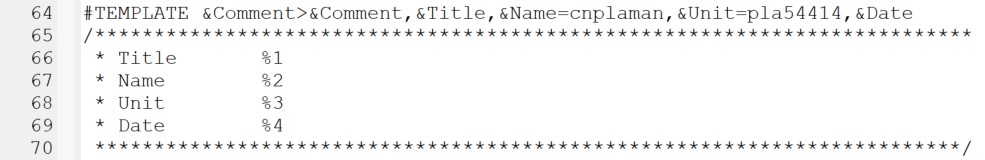
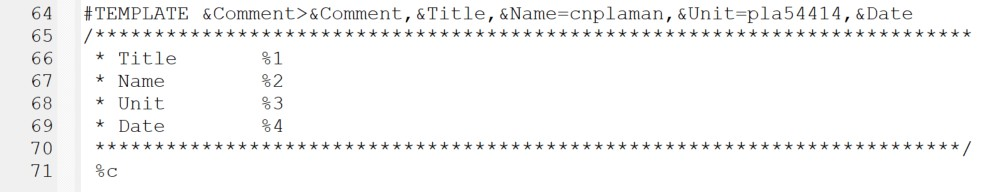
ide

diff --git a/wsn/exp0.html b/wsn/exp0.html
@@ -8,11 +8,11 @@
     <title>WSN集成开发环境搭建</title>
     <link rel="stylesheet" href="../css/reset.css">
     <link rel="stylesheet" href="../css/ds.css">
-    <base target="_blank">
     <style>
         header {
             background-image: url(../imgs/wsn/wsn.jpg);
             color: #333;
+            margin-bottom: 0;
         }
 
         header h1 {
@@ -20,9 +20,9 @@
             text-align: left;
         }
 
-        .title {
-            line-height: 1.2rem;
-            text-decoration: underline;
+        nav {
+            line-height: 3rem;
+            background-color: #f40;
         }
 
         .cont li {
@@ -81,10 +81,18 @@
 
 <body>
     <section class="w">
-        <header class="nav">
+        <header class="nav" id="top">
             <h1>WSN集成开发环境搭建</h1>
         </header>
-        <h2>硬件Hardware</h2>
+        <nav>
+            <ul class="flex-h">
+                <li><a href="#ide" id="toide">开发环境</a></li>
+                <li><a href="#pro" id="topro">创建项目</a></li>
+                <li><a href="#conf" id="toconf">其它配置</a></li>
+                <li><a href="#temp" id="totemp">模板使用</a></li>
+            </ul>
+        </nav>
+        <h2 id="ide">硬件Hardware <a href="#top" id="top0"><i class="iconfont icon">&#xe604;</i></a></h2>
         <dl>
             <dt>包括</dt>
             <dd>个人PC</dd>
@@ -118,7 +126,7 @@
             <dt>说明</dt>
             <dd>TI的提供的资源很多都是免费的，但是要注册才能下载，有。。。用户信息的嫌疑；</dd>
         </dl>
-        <h2>第一个项目：点灯</h2>
+        <h2 id="pro">第一个项目：点灯 <a href="#top" id="top1"><i class="iconfont icon">&#xe604;</i></a></h2>
         <dl>
             <dt>基本流程</dt>
             <dd>创建工作空间(.eww)-&gt;创建项目(.ewp，如基于C的项目)-&gt;配置项目-&gt;创建其它文件-&gt;添加文件到项目-&gt;调式-&gt;下载/烧写-&gt;执行/调试</dd>
@@ -185,7 +193,7 @@
             <dd>观察节点板上的LED灯开始间断闪烁；</dd>
             <dd>调整源码参数，重新调试，检测实验结果；</dd>
         </dl>
-        <h2>基本配置</h2>
+        <h2 id="conf">基本配置 <a href="#top" id="top2"><i class="iconfont icon">&#xe604;</i></a></h2>
         <dl>
             <dt>字体</dt>
             <dd class="ps-box">
@@ -196,27 +204,45 @@
                 <img src="../imgs/wsn/code031.jpg" alt="">
             </dd>
         </dl>
-        <h2>创建模板</h2>
+        <h2 id="temp">创建模板 <a href="#top" id="top3"><i class="iconfont icon">&#xe604;</i></a></h2>
         <dl>
             <dt>说明</dt>
             <dd>模板是IAR的强大功能；灵活利用模板可以提高开发效率</dd>
             <dd>可以创建注释、函数等模板</dd>
-            <dt>创建注释模板</dt>
-            <dd>编辑Edit-&gt;代码模板Code template-&gt;编辑模板Edit Template，打开CodeTemplates.ENU.txt文件，在最后面添加如下模板</dd>
-            <dd>模板以#开头，后面是模板的名字和参数；使用&gt;创建多级模板；</dd>
+            <dt>创建模板</dt>
+            <dd>编辑Edit-&gt;代码模板Code template-&gt;编辑模板Edit Template，打开CodeTemplates.ENU.txt文件，在<span
+                    class="warn">适当位置</span>添加如下模板</dd>
+            <dd>模板以#TEMPLATE开头<span class="warn">[大写]</span>，后面是模板的名字和参数；使用&gt;创建多级模板；</dd>
             <dd>模板用到的参数以,区分；如果参数带有默认值，以值对的形式呈现；</dd>
             <dd>模板实现中，使用数值和参数一一对应；如果需要对齐，不要使用tab，使用空格；</dd>
+            <dd>同类模板<span class="warn">应</span>放在一起</dd>
+            <dd>模板使用%c，可以在插入模板后，定义光标的位置；</dd>
+            <dt>使用模板</dt>
+            <dd>在源文件中，编辑Edit-&gt;代码模板Code template-&gt;插入模板Insert Template，选择创建的注释模板；填写对应的内容并确定，注释模板即可添加到源文件中；</dd>
+            <dt><span class="warn">[示例1 注释模板]</span></dt>
             <dd>下面示例声明了一个2级注释代码，共4个参数，其中：第2个和第3个带有默认参数；</dd>
+            <dd>创建模板</dd>
             <dd class="ps-box">
                 <img src="../imgs/wsn/code40.jpg" alt="">
             </dd>
-            <dt>使用注释模板</dt>
-            <dd>在源文件中，编辑Edit-&gt;代码模板Code template-&gt;插入模板Insert Template，选择创建的注释模板；填写对应的内容并确定，注释模板即可添加到源文件中；</dd>
+            <dd>使用模板</dd>
             <dd class="ps-box">
                 <img src="../imgs/wsn/code41.jpg" alt="">
             </dd>
+            <dd>插入模板后效果</dd>
             <dd class="ps-box">
                 <img src="../imgs/wsn/code42.jpg" alt="">
+            </dd>
+            <dt><span class="warn">[示例2 主函数模板]</span></dt>
+            <dd>下面示例声明了一个main主函数模板，没有参数，返回为0；</dd>
+            <dd>该函数模板放在了声明类模板Statement的最上面；插入光标后在mai函数的第一行；</dd>
+            <dd>创建模板</dd>
+            <dd class="ps-box">
+                <img src="../imgs/wsn/code43.jpg" alt="">
+            </dd>
+            <dd>使用模板：因为没有函数，直接在源文件中插入</dd>
+            <dd class="ps-box">
+                <img src="../imgs/wsn/code44.jpg" alt="">
             </dd>
         </dl>
         <footer>
@@ -225,9 +251,30 @@
                 <img src="../imgs/avatar.jpg" alt="">
                 <span>Cnplaman from No 54414, PLA</span>
             </div>
-            <span>2022-04-28</span>
+            <span>2022-05-07</span>
         </footer>
     </section>
+    <script src="../js/s2view_cnplaman.js"></script>
+    <script>
+        window.onload = function () {
+            let ide = document.querySelector('#toide');
+            let pro = document.querySelector('#topro');
+            let conf = document.querySelector('#toconf');
+            let temp = document.querySelector('#totemp');
+            let top0 = document.querySelector('#top0');
+            let top1 = document.querySelector('#top1');
+            let top2 = document.querySelector('#top2');
+            let top3 = document.querySelector('#top3');
+            s2view(ide, "#ide")
+            s2view(pro, "#pro")
+            s2view(conf, "#conf")
+            s2view(temp, "#temp")
+            s2view(top0, "#top")
+            s2view(top1, "#top")
+            s2view(top2, "#top")
+            s2view(top3, "#top")
+        }
+    </script>
 </body>
 
 </html>

diff --git a/index.html b/index.html
@@ -215,13 +215,6 @@
                         </a>
                     </li>
                     <li class="nav">
-                        <a class="nav-item flex" href="./wsn/ide.html">
-                            <div class='nav-tips'>集成开发环境</div>
-                            <div class="dot"></div>
-                            <div class='nav-desc'>IDE</div>
-                        </a>
-                    </li>
-                    <li class="nav">
                         <a class="nav-item flex" href="./wsn/zigbee.html">
                             <div class='nav-tips'>Zigbee解读</div>
                             <div class="dot"></div>
@@ -233,6 +226,13 @@
                             <div class='nav-tips'>高级加密标准</div>
                             <div class="dot"></div>
                             <div class='nav-desc'>AES</div>
+                        </a>
+                    </li>
+                    <li class="nav">
+                        <a class="nav-item flex" href="./wsn/exp0.html">
+                            <div class='nav-tips'>实验0 集成开发环境</div>
+                            <div class="dot"></div>
+                            <div class='nav-desc'>IDE</div>
                         </a>
                     </li>
                     <li class="nav">

diff --git a/wsn/wsn.html b/wsn/wsn.html
@@ -47,10 +47,10 @@
                 </a>
             </li>
             <li class="nav">
-                <a class="nav-item flex-h" href="ide.html">
-                    <div class='nav-tips'>集成开发环境</div>
+                <a class="nav-item flex-h" href="zigbee.html">
+                    <div class='nav-tips'>Zigbee解读</div>
                     <div class="dot"></div>
-                    <div class='nav-desc'>IDE</div>
+                    <div class='nav-desc'>Zigbee</div>
                 </a>
             </li>
             <li class="nav">
@@ -61,10 +61,10 @@
                 </a>
             </li>
             <li class="nav">
-                <a class="nav-item flex-h" href="zigbee.html">
-                    <div class='nav-tips'>Zigbee解读</div>
+                <a class="nav-item flex-h" href="exp0.html">
+                    <div class='nav-tips'>实验0 集成开发环境</div>
                     <div class="dot"></div>
-                    <div class='nav-desc'>Zigbee</div>
+                    <div class='nav-desc'>IDE</div>
                 </a>
             </li>
             <li class="nav">
